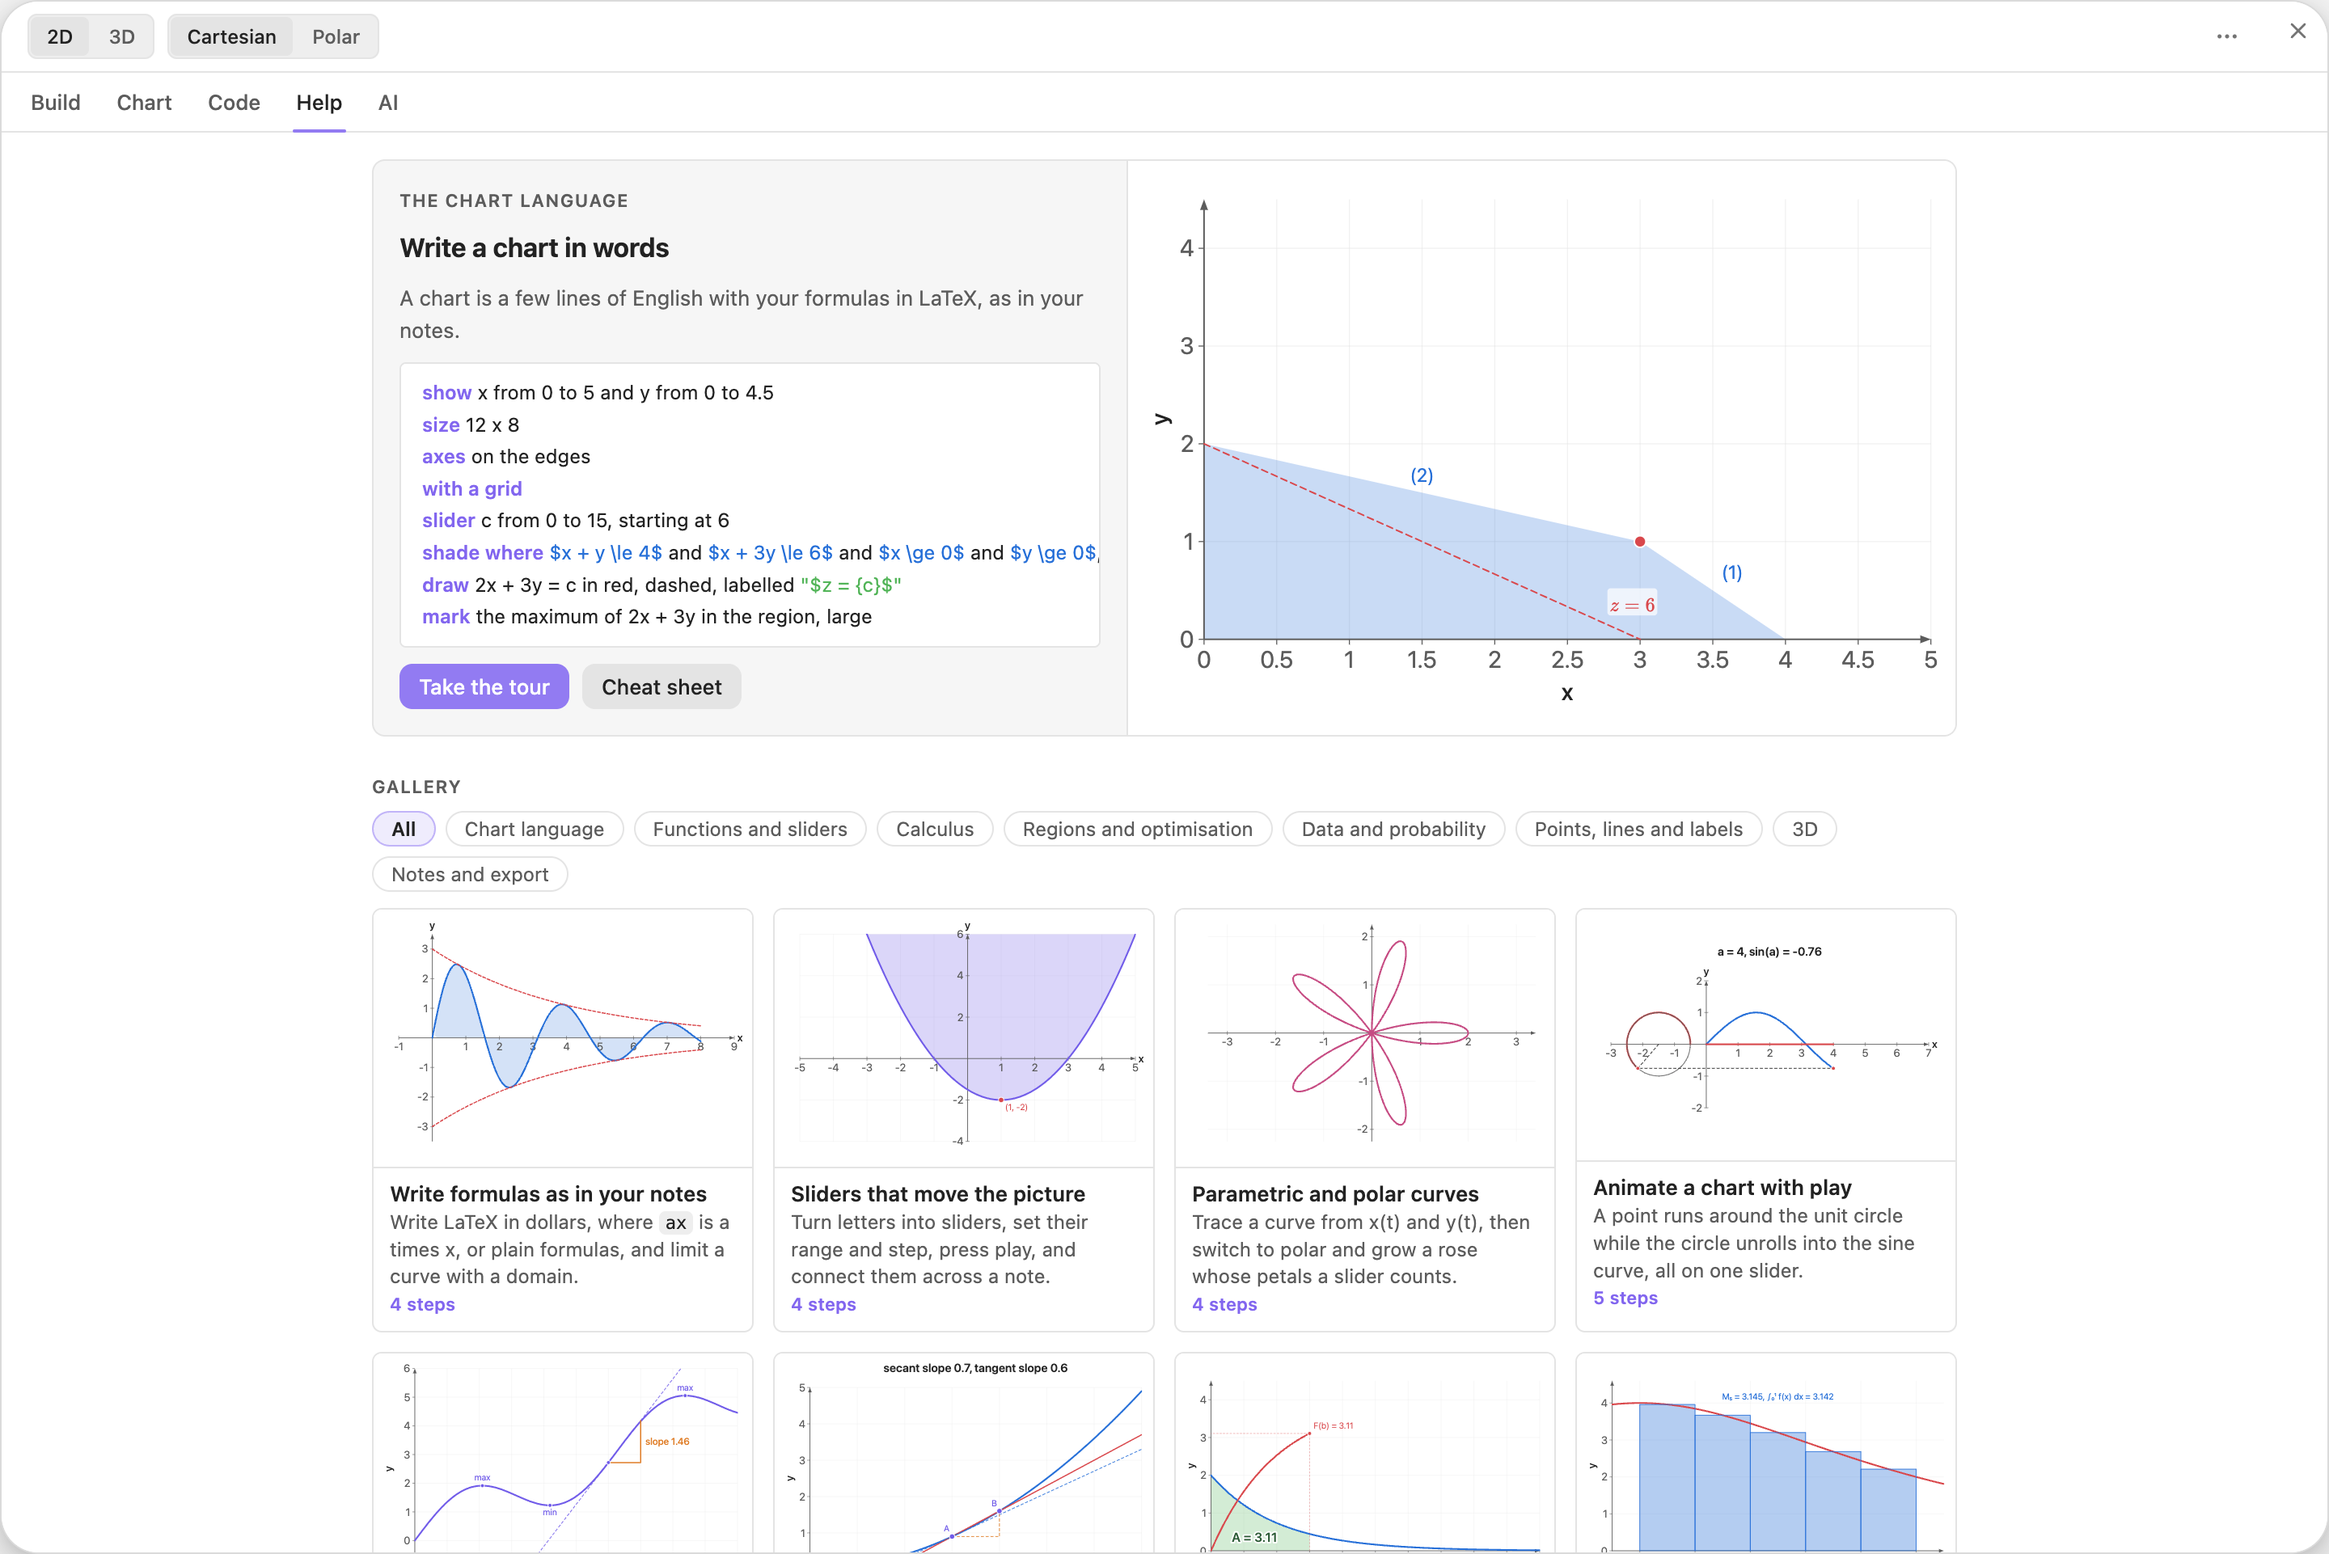
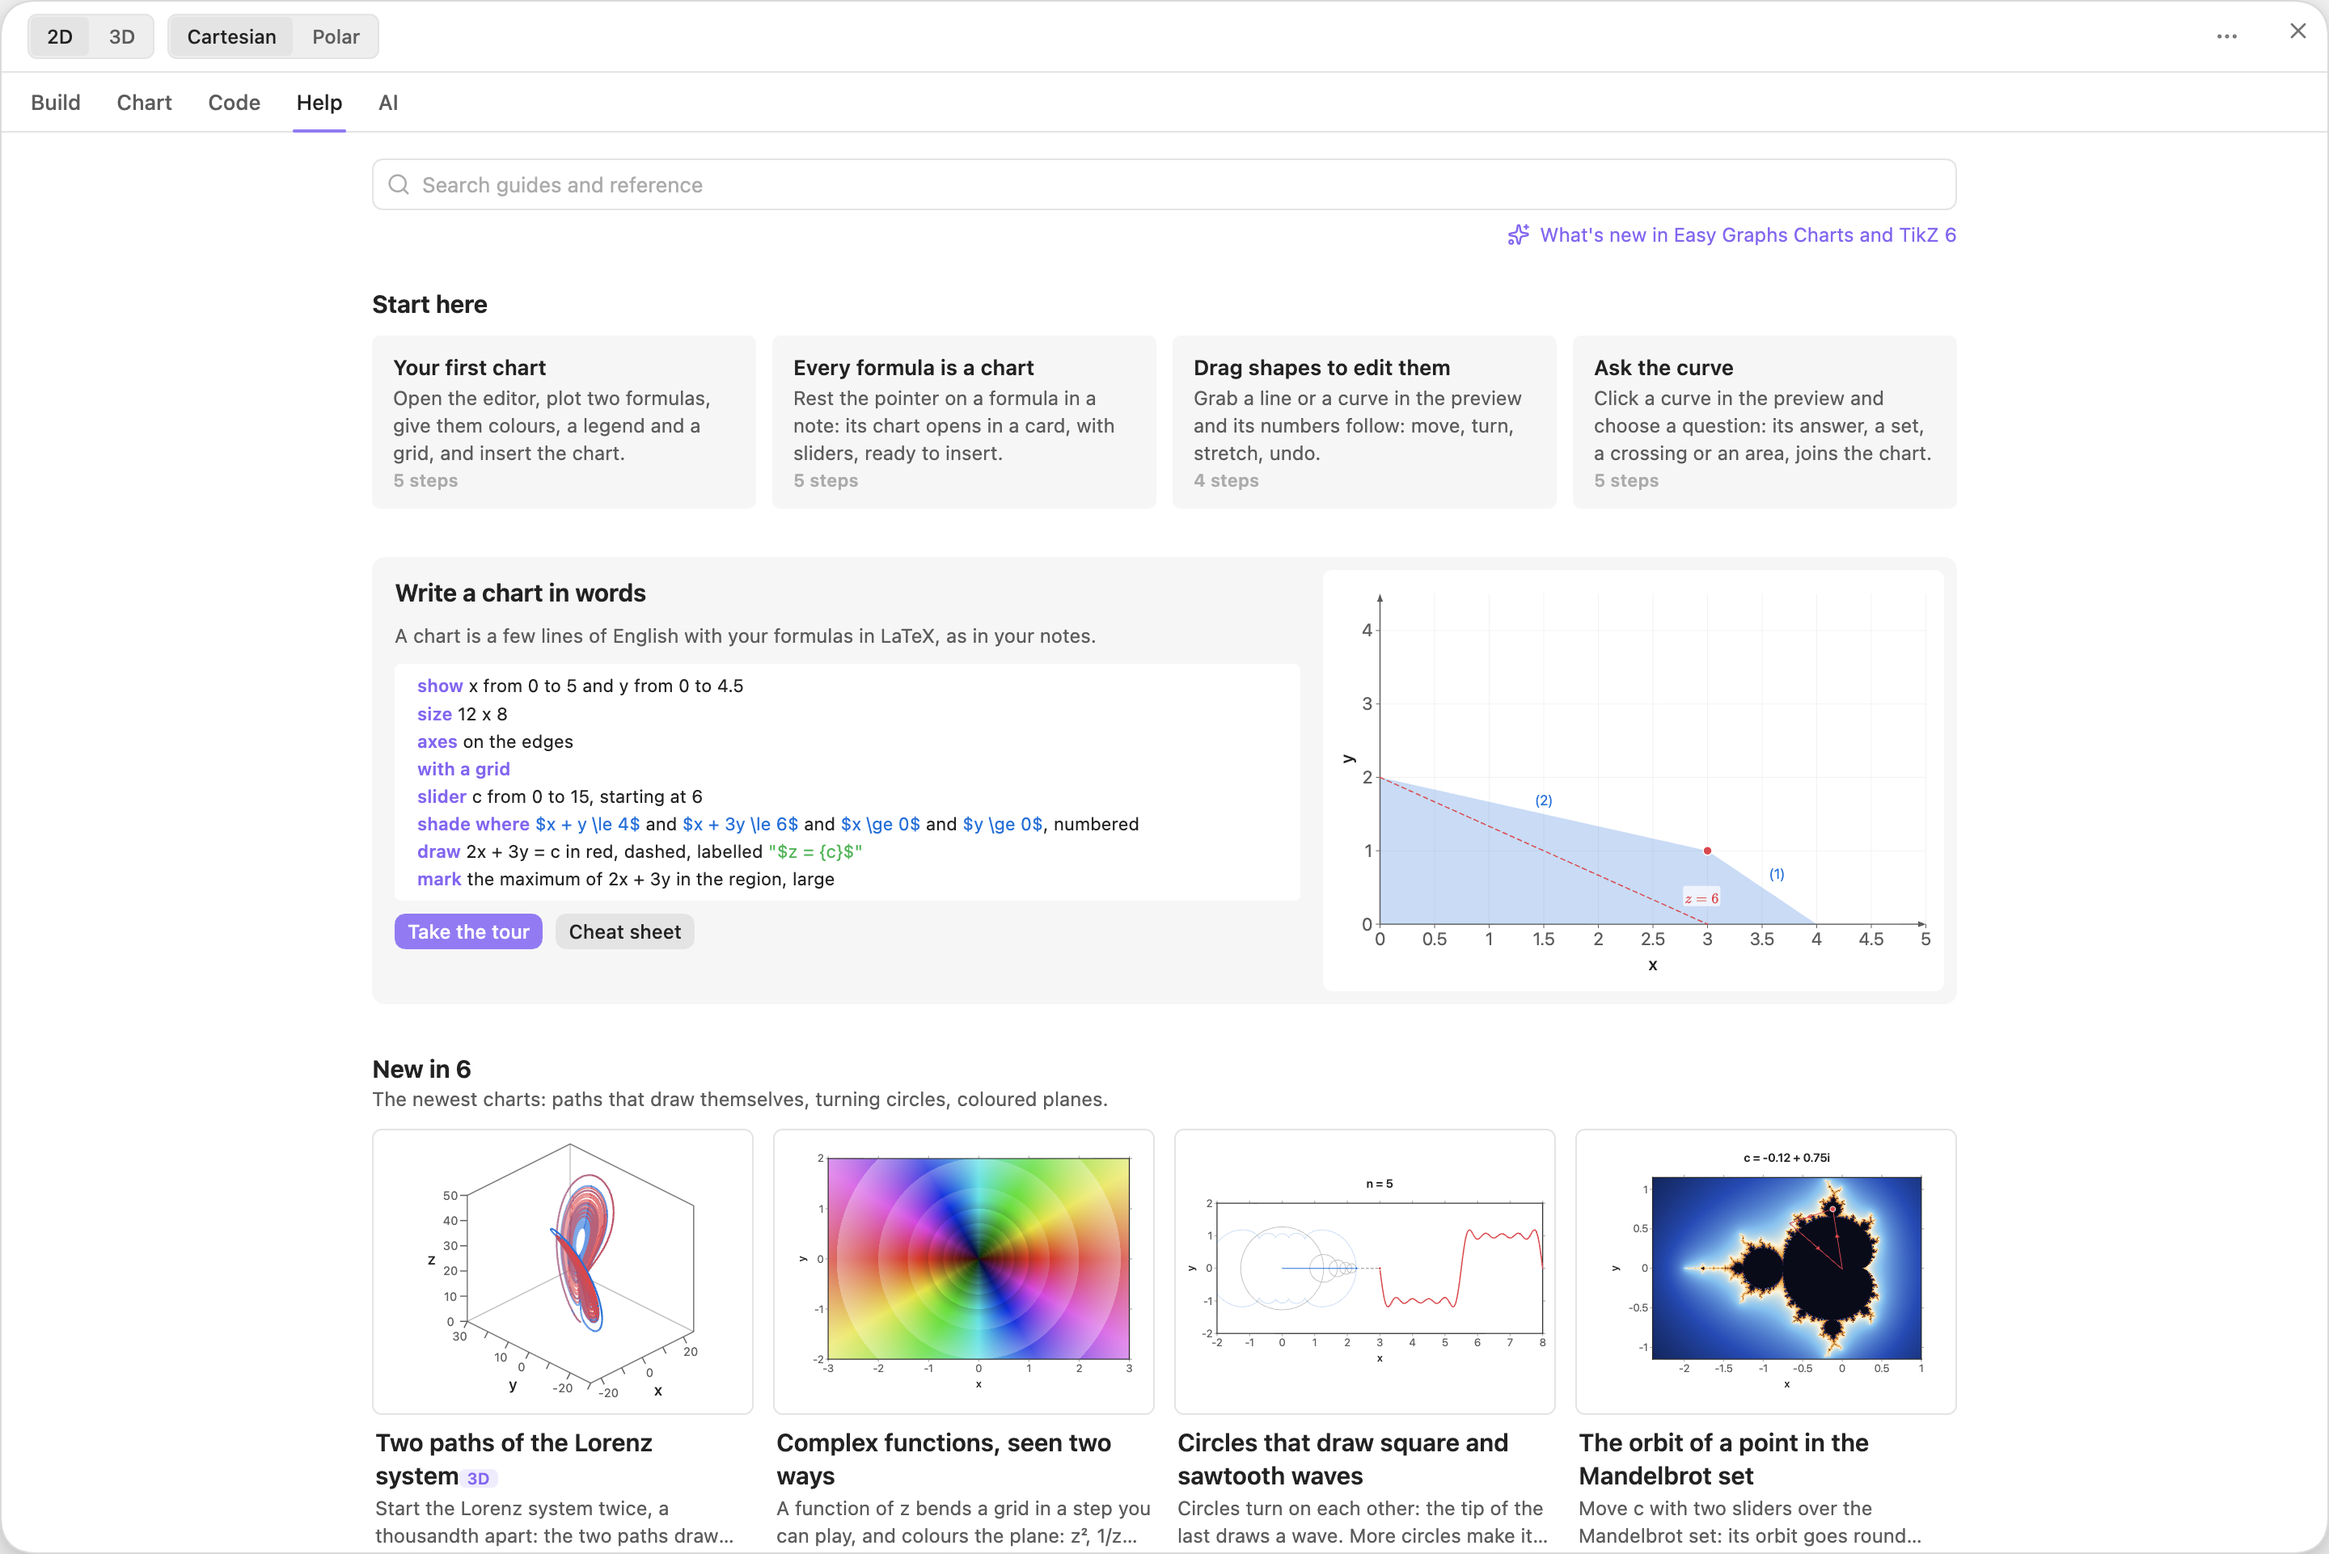
6.0 README pictures: fractals, a matrix that moves the plane, charts that move, Python and GeoGebra, Ask the curve, notes that read sets, values and iterations, and the new Help home; 79 guides; alt texts as the pictures show them

diff --git a/README.md b/README.md
@@ -18,31 +18,31 @@ Click any chart to open it. Everything is connected: drag a line, a point or a l
 
 ### Charts that move
 
-<img src="docs/media/v6-motion.png" alt="Two charts. The damped pendulum: arrows coloured by length, particles flowing along them, and the rest points labelled stable spiral and saddle. The Lorenz attractor in 3D, its two wings coloured by time from dark purple to yellow." width="100%">
+<img src="docs/media/v6-motion.png" alt="Two charts. The damped pendulum: arrows coloured by length, particles flowing along them, and the rest points labelled stable spiral and saddle. The Lorenz attractor in 3D, its two wings coloured by time from blue through purple to orange." width="100%">
 
 Vector fields with moving particles and their rest points, solutions of systems in 2D and 3D, and charts that play in steps.
 
 ### Write it in Python or GeoGebra
 
-<img src="docs/media/v6-code.png" alt="CODE_ALT" width="100%">
+<img src="docs/media/v6-code.png" alt="Two charts. Left: a small neural network learning two rings of points in a Python block, at training step 530: the blue region inside a closed black boundary around the blue points, red around it. Right: a chart from GeoGebra lines, a triangle ABC with its circumcircle, a segment to a midpoint and a Sequence of points, with its ten input lines printed under it." width="100%">
 
 A Python block with NumPy and matplotlib draws in the chart and can play over time, so a network learns while you watch. GeoGebra lines paste as they are. Or [ask any chatbot](docs/ai.md) to write the chart.
 
 ### A matrix moves the plane
 
-<img src="docs/media/v6-matrix.png" alt="The grid, the basis vectors î and ĵ and the unit square, half way through the move to the matrix A = [[1.5, 1], [0.5, 2]]: the grid lines lean, the old grid stays faint behind them, and the strip under the chart shows Play and Step 2 of 3. Beside it the finished picture with the eigenvectors labelled λ₁ = 2.5 and λ₂ = 1 and the square labelled det A = 2.5." width="100%">
+<img src="docs/media/v6-matrix.png" alt="The grid, the basis vectors î and ĵ and the unit square, half way through the move to the matrix A = [[1.5, 1], [0.5, 2]]: the grid lines lean, the old grid stays faint behind them, the square reads area = 1.786 on its way, and the strip under the chart shows Pause and Step 2 of 3. Beside it the finished picture with the eigenvectors labelled λ₁ = 2.5 and λ₂ = 1 and the square labelled det A = 2.5." width="100%">
 
 Draw the grid and î, ĵ, then transform the plane by a matrix or by z ↦ z². Press Play and the plane moves, with det A and the eigenvectors.
 
 ### Fractals, live
 
-<img src="docs/media/v6-fractal.png" alt="The Mandelbrot set, coloured by how fast each point escapes, with a point P dragged to its edge and the orbit of 0 for c = P spiralling inward as a red path. Beside it a Julia set with its sliders a and b." width="100%">
+<img src="docs/media/v6-fractal.png" alt="The Mandelbrot set, coloured by how fast each point escapes, with a point P near its edge and the orbit of 0 for c = P as a red path that closes into a triangle. Beside it a Julia set with its sliders a and b." width="100%">
 
 A formula colours the plane: the Mandelbrot set, Julia sets on sliders, Newton basins and complex functions. The GPU paints it while you drag.
 
 ### Ask the curve
 
-<img src="docs/media/v6-ask.png" alt="The editor with the parabola g(x) = x² − 4 and the line h(x) = 2 − x. A click on g opened a menu of questions: where is g ≤ 0, where does g cross the x-axis, its maxima and minima, the tangent here, where do g and h cross, the area between g and h. The pointer rests on the first question, and its answer shows faintly in the chart: the bar from −2 to 2 on the x-axis labelled {x ∣ g(x) ≤ 0} = [−2, 2]." width="100%">
+<img src="docs/media/v6-ask.png" alt="The editor with the parabola g(x) = x² − 4 and the line h(x) = 2 − x. A click on g opened a menu of questions: where is g ≤ 0, where does g cross the x-axis, its maxima and minima, the tangent here, a chord, the area to the x-axis, a Riemann sum. The pointer rests on the first question, and its answer shows faintly in the chart: the bar from −2 to 2 on the x-axis labelled {x ∣ g(x) ≤ 0} = [−2, 2]." width="100%">
 
 Click a curve and ask: where is f ≤ 0, where do f and g cross, the tangent here, the area between them. The answer becomes a line of the chart.
 
@@ -90,13 +90,13 @@ Every chart can also be an SVG file in your vault, so Obsidian Publish and GitHu
 
 ### Learn it step by step
 
-<img src="docs/media/readme/help.png" alt="The Help tab: the card Write a chart in words, with a chart's lines in English and LaTeX beside the linear program they draw, and below it a gallery of guides with category chips and tiles of their finished charts: a damped wave, a parabola with a slider, a polar rose, the unit circle unrolling into the sine, a tangent, a secant, an accumulated area and a Riemann sum." width="100%">
+<img src="docs/media/readme/help.png" alt="The Help tab of the editor: a search field, Start here with four first guides (your first chart, every formula is a chart, drag shapes to edit them, ask the curve), the card Write a chart in words with its lines beside the linear program they draw, and the row New in 6 with the Lorenz system, complex functions seen two ways, circles that draw square and sawtooth waves, and the orbit of a point in the Mandelbrot set." width="100%">
 
-The Help tab is a gallery of 39 short guides. Each step shows its chart live with its sliders, and the lines it adds to the chart, so you learn the chart language while you build.
+The Help tab starts with Start here and New in 6, then 79 short guides by topic. Each step shows its chart live with its sliders, and the lines it adds to the chart, so you learn the chart language while you build.
 
 ---
 
-**39 step-by-step guides** in the Help tab and [on GitHub](docs/guides/README.md) · [What's new in 6.0](docs/whats-new.md) · [Make charts with AI](docs/ai.md) · [Reference](docs/reference.md) · [Changelog](CHANGELOG.md)
+**79 step-by-step guides** in the Help tab and [on GitHub](docs/guides/README.md) · [What's new in 6.0](docs/whats-new.md) · [Make charts with AI](docs/ai.md) · [Reference](docs/reference.md) · [Changelog](CHANGELOG.md)
 
 **Privacy:** nothing goes to the internet, and there is no telemetry. The one exception: the 6.0 film in What's new loads from YouTube (`youtube-nocookie.com`) when you press Play, and not before. AI access (off by default) answers on `127.0.0.1` only, with your token. [All details](docs/reference.md#privacy-and-permissions)
 
